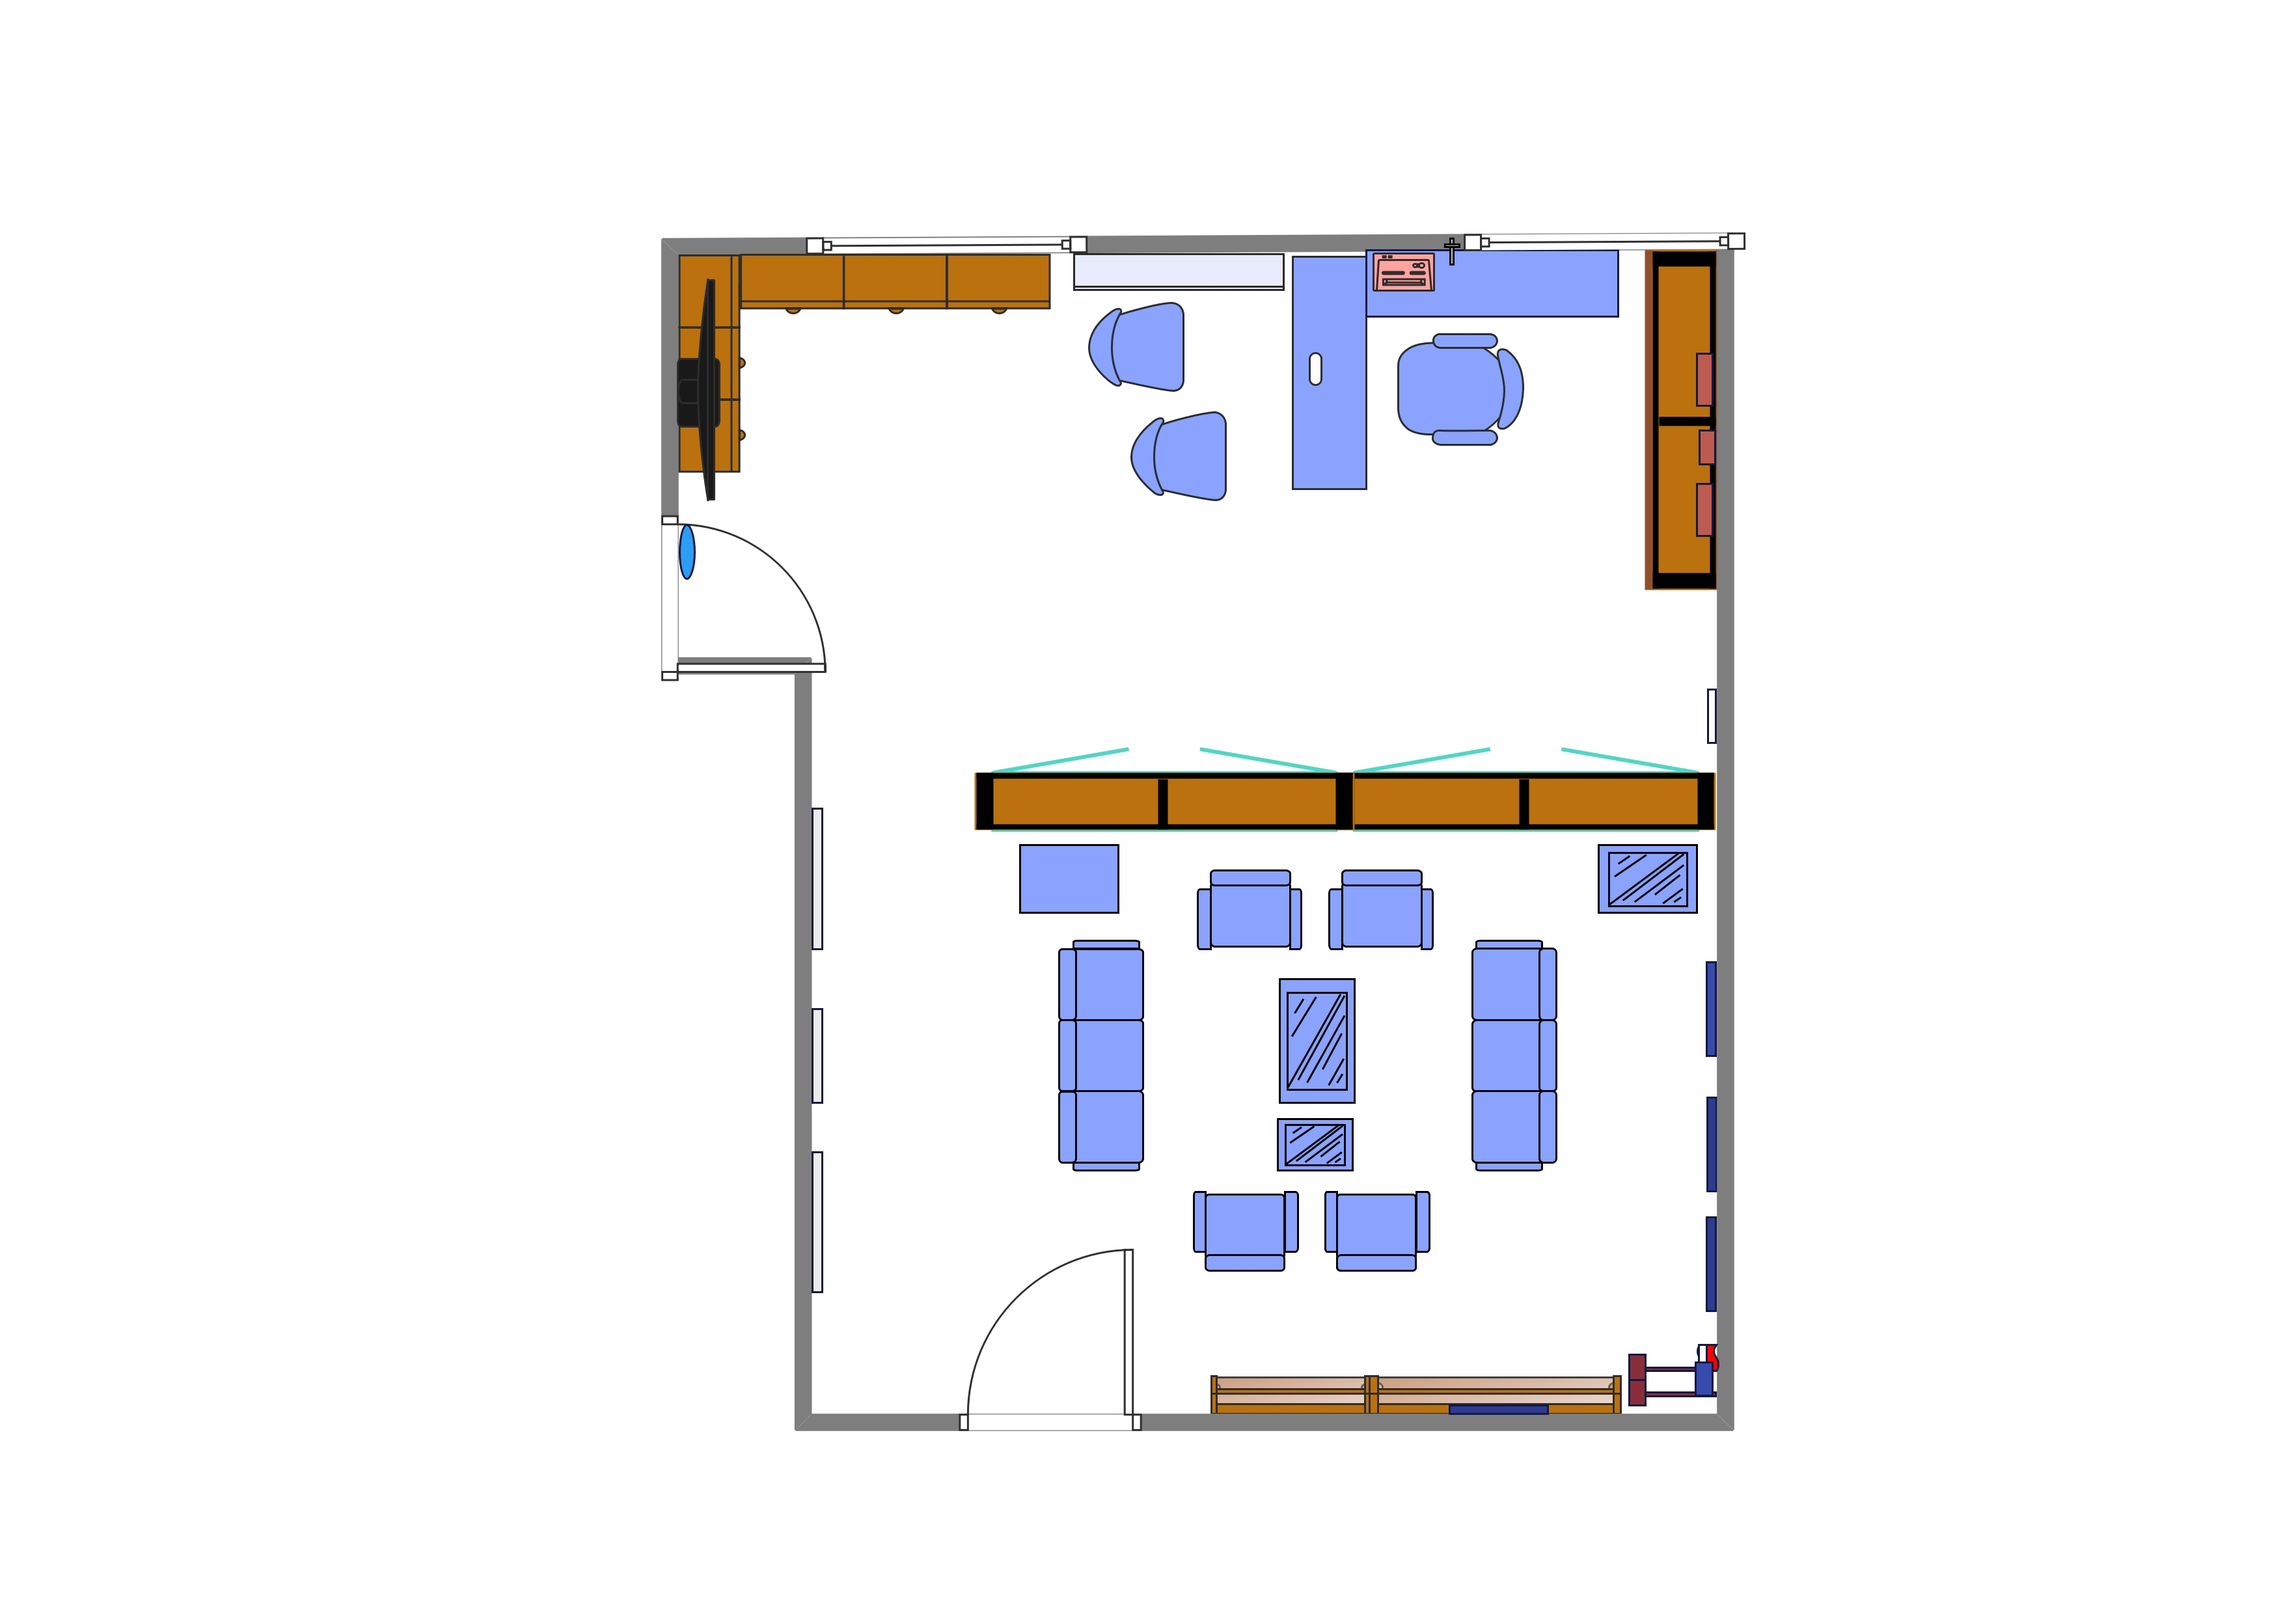
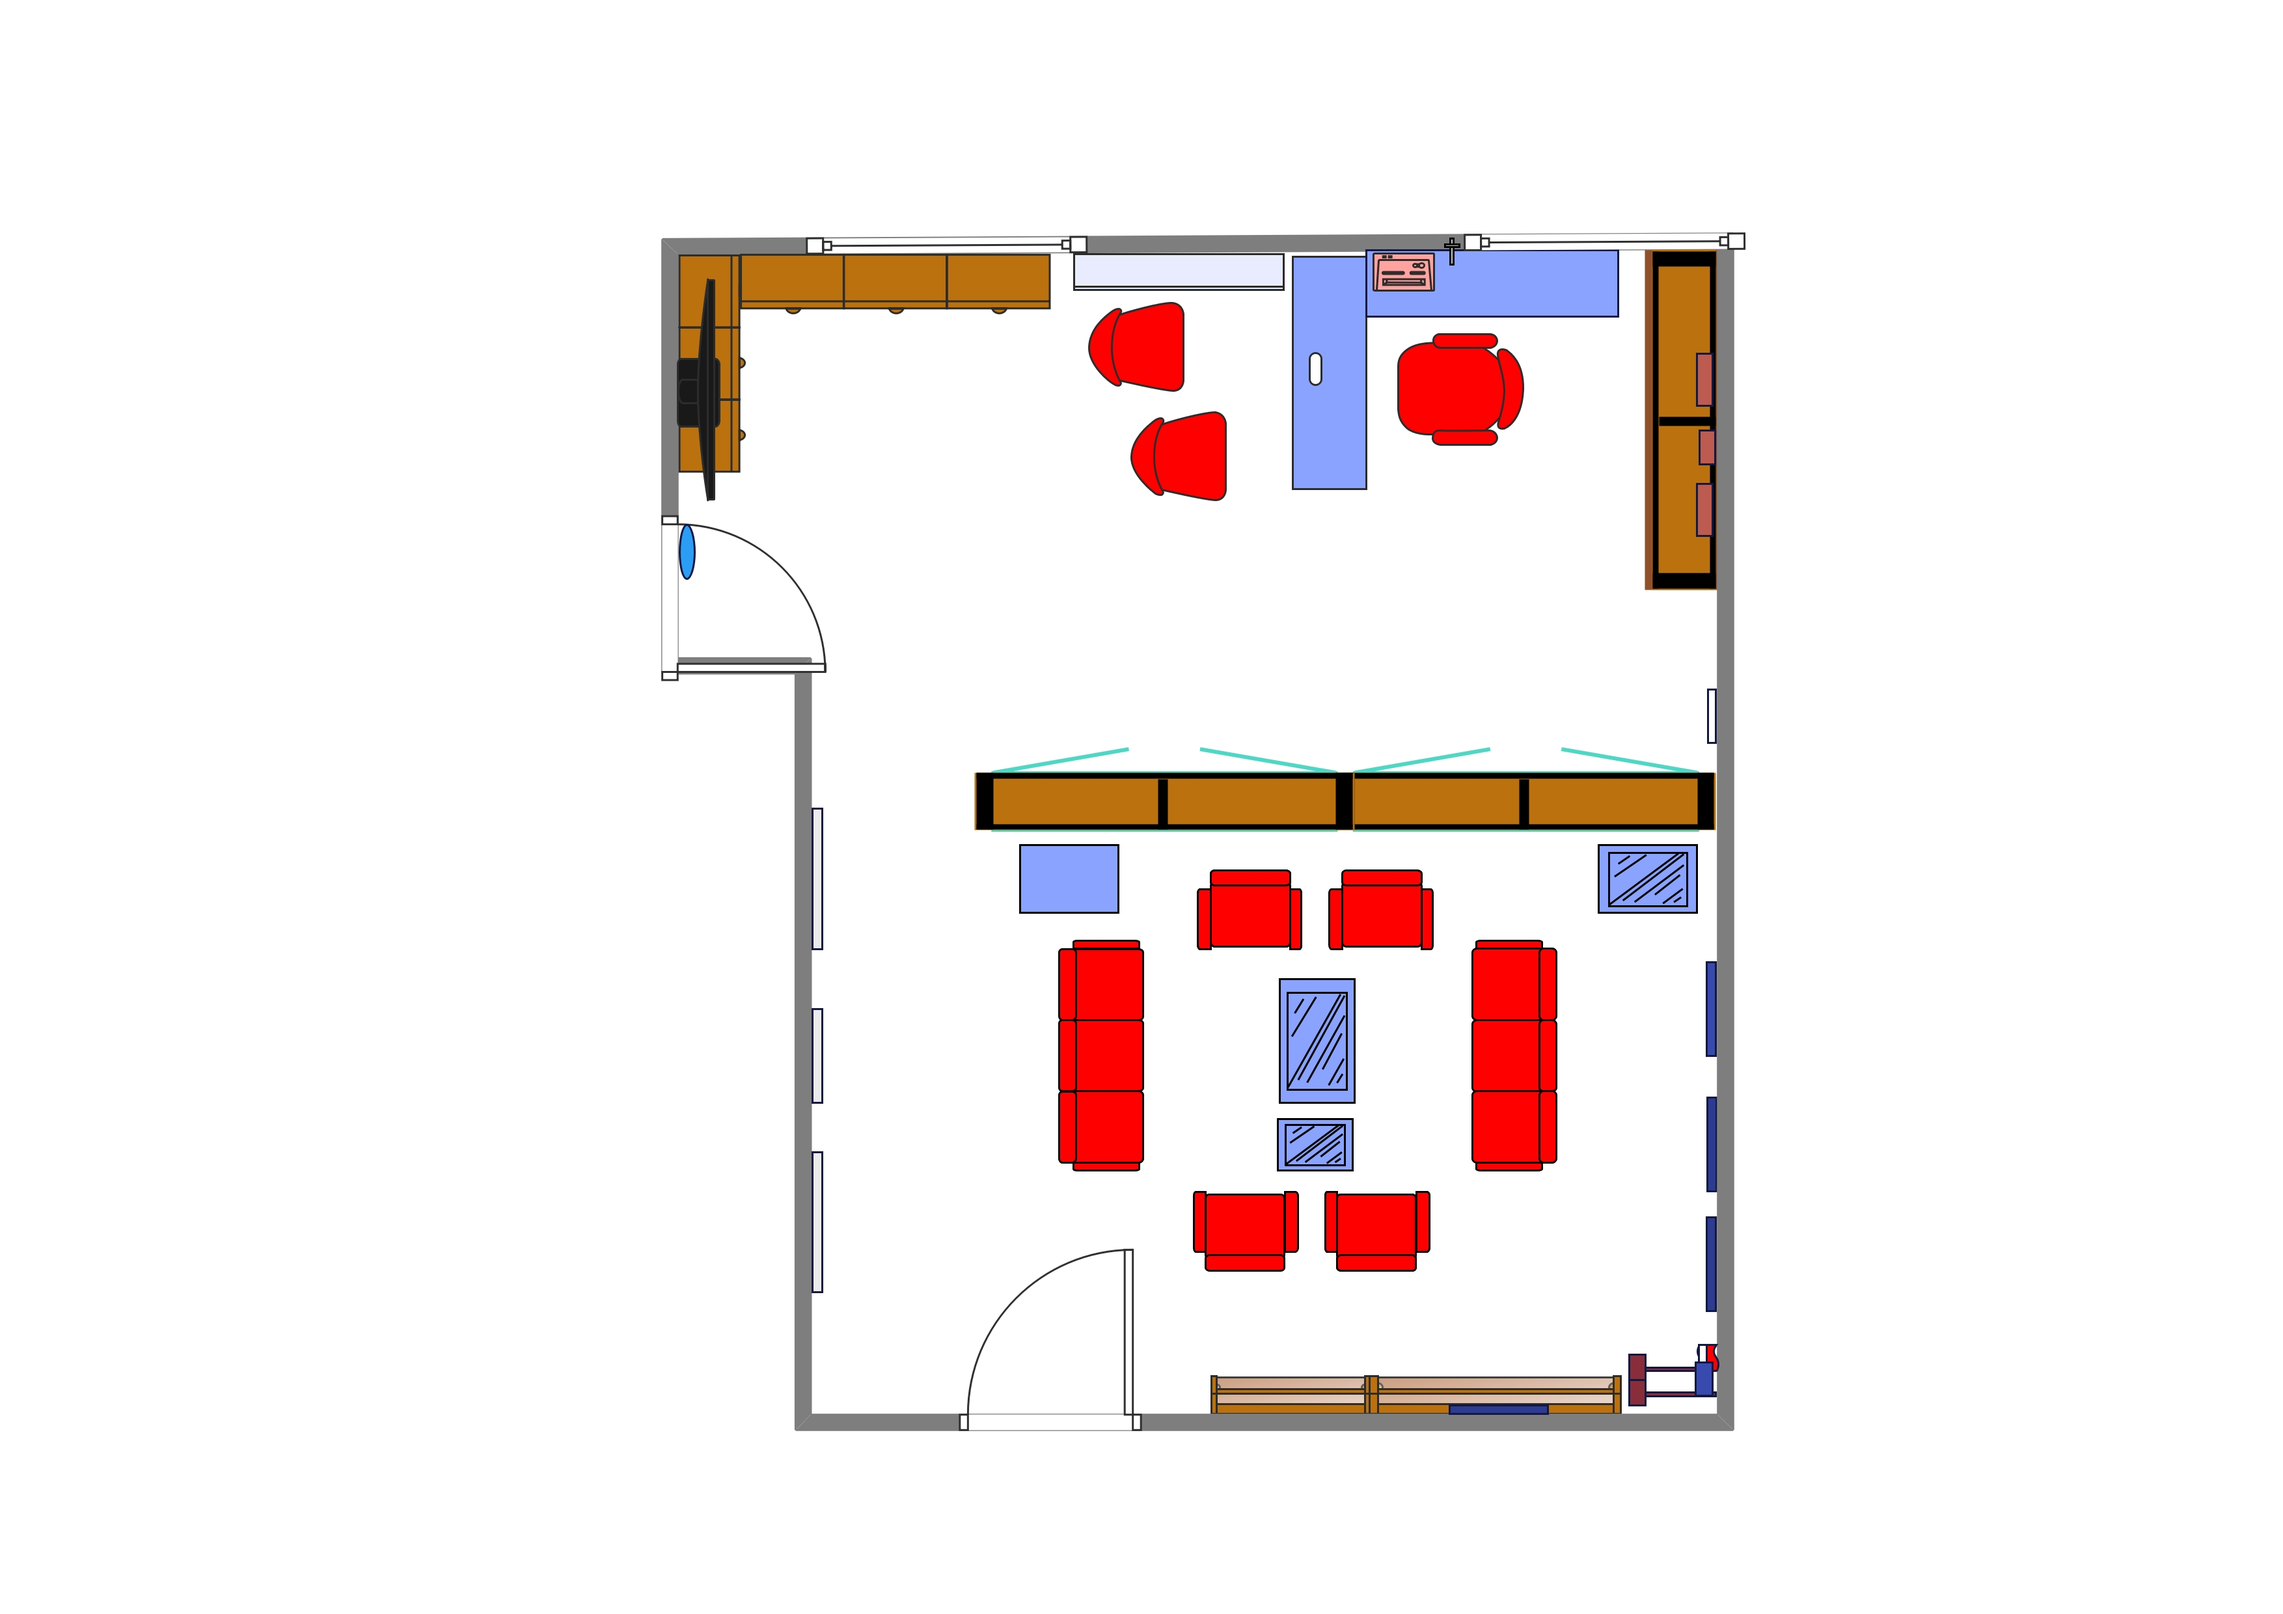
update warna kursi

Changed region(s): [[0.4661, 0.5278, 0.6836, 0.8073], [0.4661, 0.1863, 0.5593, 0.3105], [0.5904, 0.1863, 0.6836, 0.2794]]

diff --git a/src/data/roomsData.js b/src/data/roomsData.js
@@ -55,7 +55,7 @@ export const roomsData = {
     legendItems: [
       { number: 1, name: "Pintu Masuk", color: "#fffff"},
       { number: 2, name: "Meja", color: "#8AA3FF"},
-      { number: 3, name: "Kursi", color: "#8AA3FF"},
+      { number: 3, name: "Kursi", color: "#FE0000"},
       { number: 4, name: "Papan Data Informasi", color: "#D4D5E7"},
       { number: 5, name: "Lemari", color: "#BB710E"},
       { number: 6, name: "Air Codnitioner", color: "#E9ECFF"},
@@ -103,7 +103,7 @@ export const roomsData = {
     legendItems: [
       { number: 1, name: "Pintu Kelas", color: "#fffff"},
       { number: 2, name: "Meja", color: "#8AA3FF"},
-      { number: 3, name: "Kursi", color: "#8AA3FF"},
+      { number: 3, name: "Kursi", color: "#FE0000", textColor: "#FFFFFF" },
       { number: 4, name: "Papan Data Informasi", color: "#D4D5E7"},
       { number: 5, name: "Lemari", color: "#BB710E", textColor: "#FFFFFF" },
       { number: 6, name: "Air Codnitioner", color: "#E9ECFF"},
